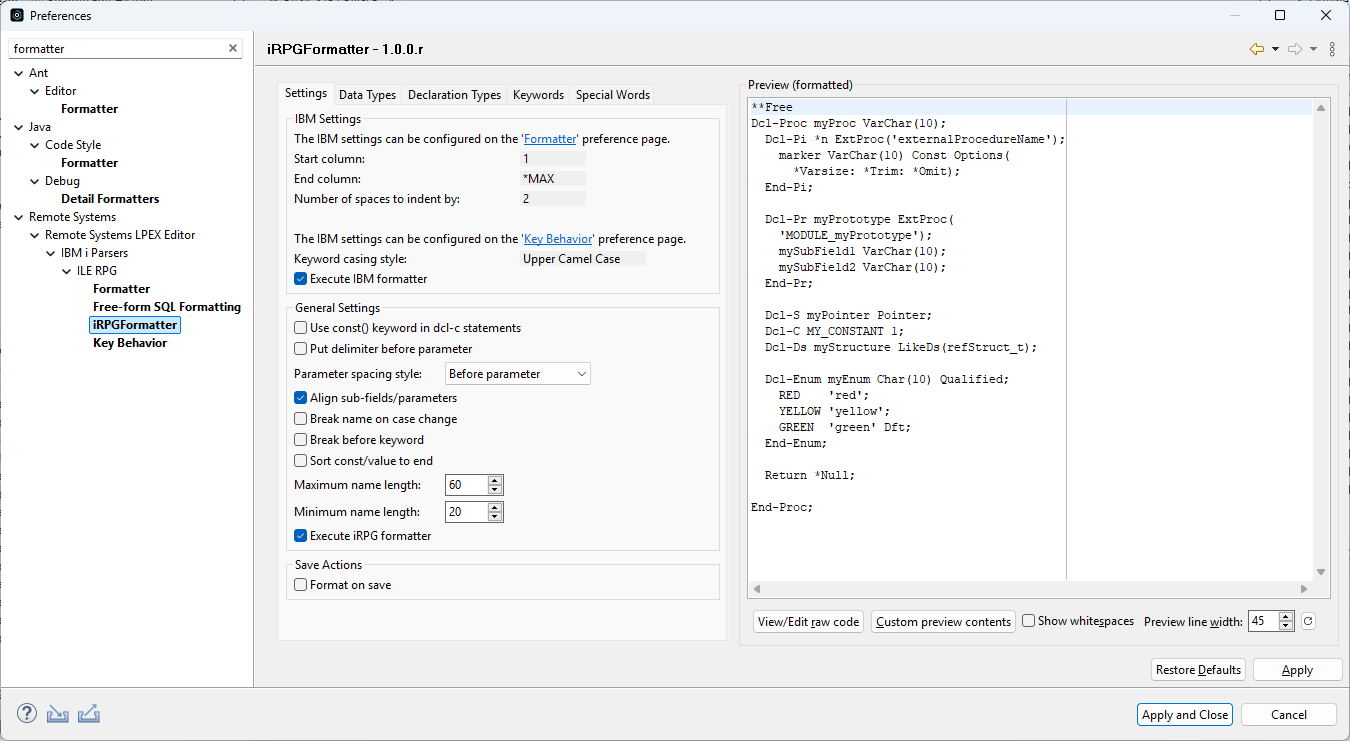
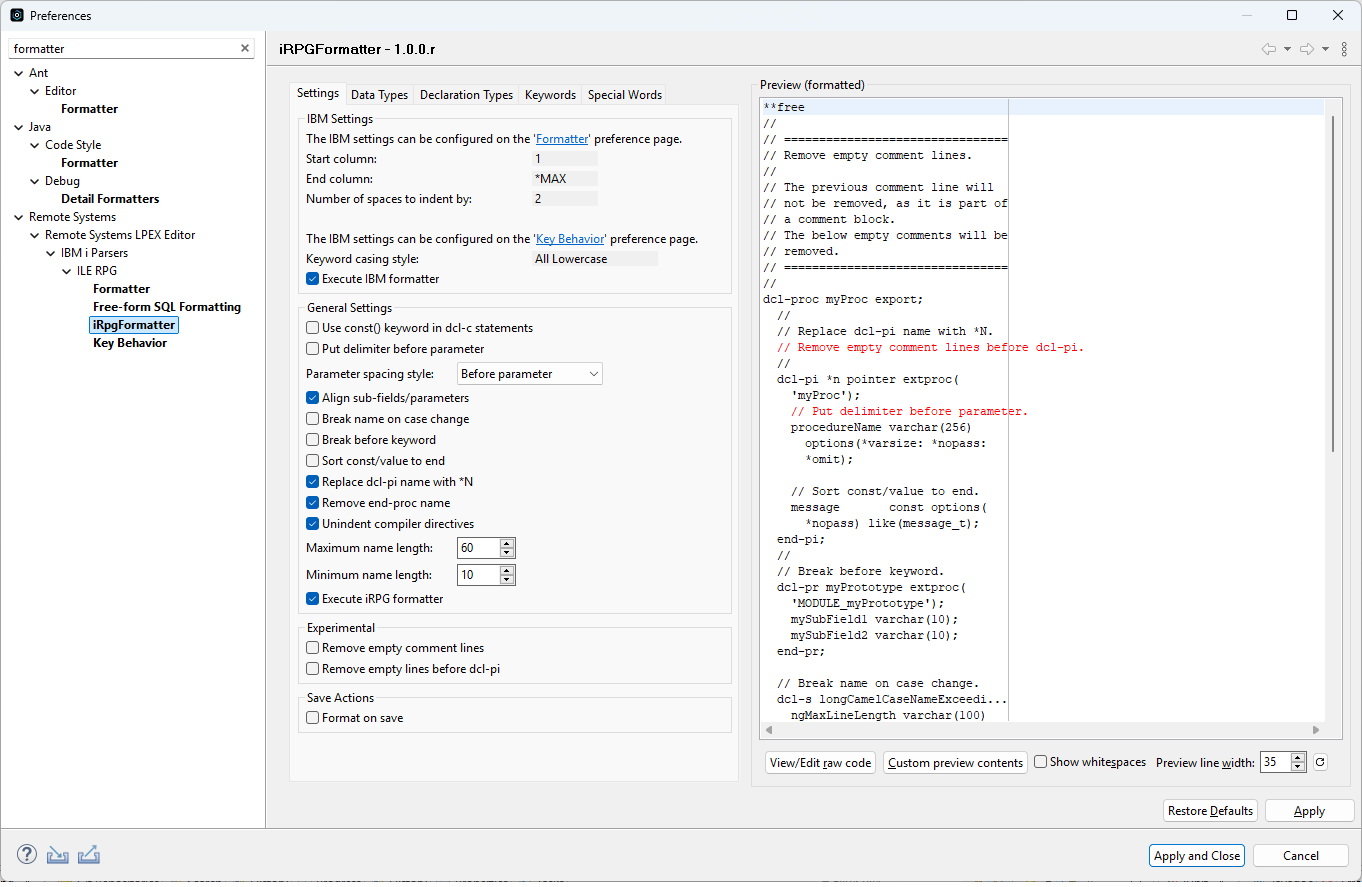
Release v1.0.0.b016. (rc 1)

diff --git a/docs/files/index.html b/docs/files/index.html
@@ -30,17 +30,17 @@
         <tr><td><img id="." class="noborder" src="../assets/pdf_file.png"></td><td><a href="https://tools-400.github.io/irpgformatter/files//iRpgFormatter for RDi.pdf">iRpgFormatter for RDi.pdf</a></td></tr>
         </table>
 
-        <h3>Beta Version 1.0.0.b015</h3>
+        <h3>Beta Version 1.0.0.b016</h3>
         <p/>
         <table class="nomargin">
-        <tr><td><img id="beta-version" class="noborder" src="../assets/zip_file.png"></td><td><a href="https://tools-400.github.io/irpgformatter/beta-version/files/rdi8.0/iRpgFormatter for RDi 9.6.0.13+ (v1.0.0.b015 Update Site).zip">IBM Rational Developer for i - RDi 9.6.0.13+</a></td></tr>
+        <tr><td><img id="beta-version" class="noborder" src="../assets/zip_file.png"></td><td><a href="https://tools-400.github.io/irpgformatter/beta-version/files/rdi8.0/iRpgFormatter for RDi 9.6.0.13+ (v1.0.0.b016 Update Site).zip">IBM Rational Developer for i - RDi 9.6.0.13+</a></td></tr>
         <tr><td><img id="beta-version" class="noborder" src="../assets/pdf_file.png"></td><td><a href="https://tools-400.github.io/irpgformatter/beta-version/files/iRpgFormatter for RDi.pdf">iRpgFormatter for RDi.pdf</a></td></tr>
         </table>
 
         <br>
         <hr>
         <table border="0" class="copyright">
-        <tr><td class="copyright" align="left" width="50%">Version: 1.0.0.b015 - Copyright: 2026, iRpgFormatter Project Team</td><td class="copyright" align="right" width="50%">Updated: 05.05.2026 - 14:29:25</td></tr>
+        <tr><td class="copyright" align="left" width="50%">Version: 1.0.0.b016 - Copyright: 2026, iRpgFormatter Project Team</td><td class="copyright" align="right" width="50%">Updated: 05.05.2026 - 18:29:58</td></tr>
         </table>
         <br>
     </body>

diff --git a/docs/beta-version/update-site/eclipse/rdi8.0/index.html b/docs/beta-version/update-site/eclipse/rdi8.0/index.html
@@ -20,7 +20,7 @@
         </tr>
         </table>
         <p>
-        <div class="beta">Beta Version - 1.0.0.b015</div>
+        <div class="beta">Beta Version - 1.0.0.b016</div>
         <br>
         <div class="section">
         <h2>Installing the Plug-In</h2>
@@ -68,7 +68,7 @@
         <br>
         <hr>
         <table border="0" class="copyright">
-        <tr><td class="copyright" align="left" width="50%">Version: 1.0.0.b015 - Copyright: 2026, iRpgFormatter Project Team</td><td class="copyright" align="right" width="50%">Updated: 05.05.2026 - 14:28:35</td></tr>
+        <tr><td class="copyright" align="left" width="50%">Version: 1.0.0.b016 - Copyright: 2026, iRpgFormatter Project Team</td><td class="copyright" align="right" width="50%">Updated: 05.05.2026 - 18:29:26</td></tr>
         </table>
         <br>
         </div>

diff --git a/docs/index.html b/docs/index.html
@@ -17,7 +17,7 @@
         <p>Hi, this is the home of the iRpgFormatter plug-in for IBM Rational Developer for i.</p>
         </td>
         <td valign="bottom" align="right" nowrap>
-        <b>Version: 1.0.0.b015</b>
+        <b>Version: 1.0.0.b016</b>
         </td>
         </tr>
         </table>
@@ -128,7 +128,7 @@
         <br>
         <hr>
         <table border="0" class="copyright">
-        <tr><td class="copyright" align="left" width="50%">Version: 1.0.0.b015 - Copyright: 2026, iRpgFormatter Project Team</td><td class="copyright" align="right" width="50%">Updated: 05.05.2026 - 14:28:35</td></tr>
+        <tr><td class="copyright" align="left" width="50%">Version: 1.0.0.b016 - Copyright: 2026, iRpgFormatter Project Team</td><td class="copyright" align="right" width="50%">Updated: 05.05.2026 - 18:29:26</td></tr>
         </table>
         <br>
     </body>

diff --git a/docs/support/index.html b/docs/support/index.html
@@ -26,7 +26,7 @@
         </tr>
         <tr>
         <td valign="bottom" align="right" nowrap>
-        <b>Version: 1.0.0.b015</b>
+        <b>Version: 1.0.0.b016</b>
         </td>
         </tr>
         </table>
@@ -63,7 +63,7 @@
         <br>
         <hr>
         <table border="0" class="copyright">
-        <tr><td class="copyright" align="left" width="50%">Version: 1.0.0.b015 - Copyright: 2026, iRpgFormatter Project Team</td><td class="copyright" align="right" width="50%">Updated: 05.05.2026 - 14:28:35</td></tr>
+        <tr><td class="copyright" align="left" width="50%">Version: 1.0.0.b016 - Copyright: 2026, iRpgFormatter Project Team</td><td class="copyright" align="right" width="50%">Updated: 05.05.2026 - 18:29:26</td></tr>
         </table>
         <br>
     </body>